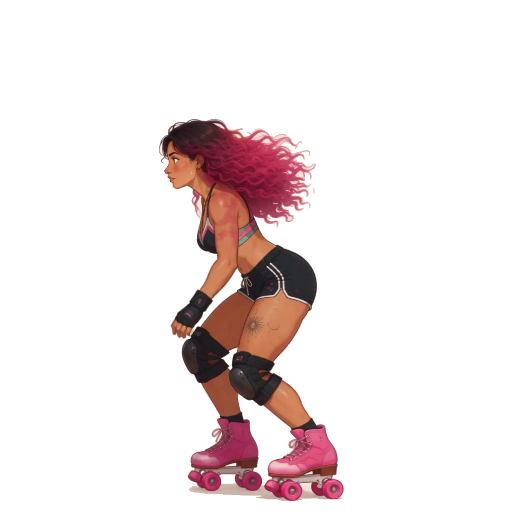
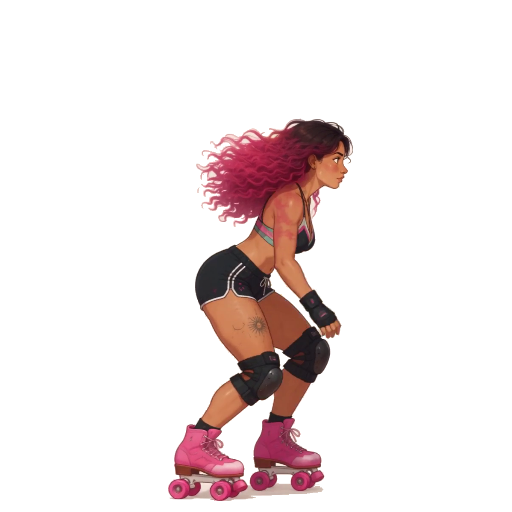
Mirror the push clip in the sprite pipeline and apply review fixes
- pack.mjs: mirror push (the only clip drawn facing left) and keep .meta files when repacking
- remove the runtime flipX added earlier; all clips now face the direction of travel
- GameFeel: reference the Android VIBRATE permission, use the sprite material for particles instead of Shader.Find, capture the base camera size once

Changed region(s): [[0.3125, 0.2188, 0.6875, 1.0]]

diff --git a/unity/Assets/Scripts/Gameplay/GameFeel.cs b/unity/Assets/Scripts/Gameplay/GameFeel.cs
@@ -32,12 +32,19 @@ namespace PokeMemories.Gameplay
         bool wasGrounded = true;
         bool wasStarted;
 
-        public void Bind(CourseSimulation simulation, Camera camera, float groundWorldY)
+        // Particles reuse a material that is already referenced by the scene (the skater's sprite material),
+        // so a player build can never lose it the way a Shader.Find lookup can.
+        Material particleMaterial;
+        bool baseOrthoCaptured;
+
+        public void Bind(CourseSimulation simulation, Camera camera, float groundWorldY, Material spriteMaterial)
         {
             sim = simulation;
             view = camera;
             groundY = groundWorldY;
-            baseOrthoSize = camera.orthographicSize;
+            particleMaterial = spriteMaterial;
+            // Capture once: a restart while zoomed out must not take the zoomed size as the base.
+            if (!baseOrthoCaptured) { baseOrthoSize = camera.orthographicSize; baseOrthoCaptured = true; }
             camPlaced = false;
             lastLandings = sim.Landings;
             lastCollected = sim.Collected;
@@ -160,8 +167,16 @@ namespace PokeMemories.Gameplay
             source.pitch = pitch;
         }
 
+        // Unity adds the Android VIBRATE permission to the manifest only when the built code references
+        // Handheld.Vibrate. The JNI vibrator path below needs that permission, so keep a (never taken)
+        // reference to it. This flag is never set.
+        static bool neverTrue;
+
         static void Haptic(long milliseconds, int amplitude)
         {
+#if UNITY_ANDROID && !UNITY_EDITOR
+            if (neverTrue) Handheld.Vibrate();
+#endif
 #if UNITY_ANDROID && !UNITY_EDITOR
             try
             {
@@ -223,7 +238,7 @@ namespace PokeMemories.Gameplay
             scale.size = new ParticleSystem.MinMaxCurve(1, AnimationCurve.Linear(0, 1, 1, 0.2f));
 
             var renderer = go.GetComponent<ParticleSystemRenderer>();
-            renderer.sharedMaterial = new Material(Shader.Find("Sprites/Default"));
+            renderer.sharedMaterial = particleMaterial;
             renderer.sortingOrder = order;
             ps.Play();
             return ps;

diff --git a/unity/Assets/Scripts/Gameplay/CourseGame.cs b/unity/Assets/Scripts/Gameplay/CourseGame.cs
@@ -74,9 +74,6 @@ namespace PokeMemories.Gameplay
 #endif
             skaterSprite = skater.GetComponent<SpriteRenderer>();
             skaterSprite.sortingOrder = 10;
-            // The source frames face left but the course scrolls right; flip at render time so
-            // the frames and their wheel-contact pivot (centred horizontally) stay untouched.
-            skaterSprite.flipX = true;
 
             // The ground is a tiled strip that jumps by whole tiles with the camera, so its
             // pattern stays fixed in the world while the camera scrolls over it.
@@ -107,7 +104,7 @@ namespace PokeMemories.Gameplay
             bailUntil = 0;
             landUntil = 0;
             started = false;
-            feel.Bind(sim, view, groundY);
+            feel.Bind(sim, view, groundY, skaterSprite.sharedMaterial);
             skater.transform.rotation = Quaternion.identity;
             skater.transform.localScale = Vector3.one;
         }
